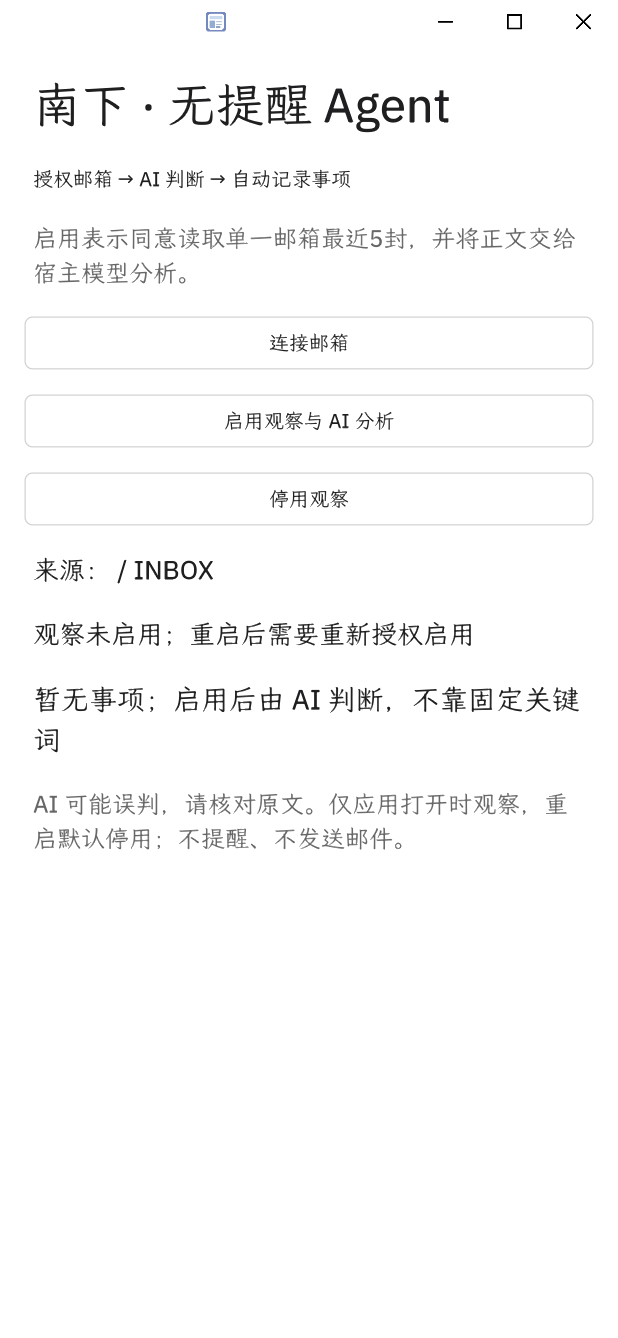
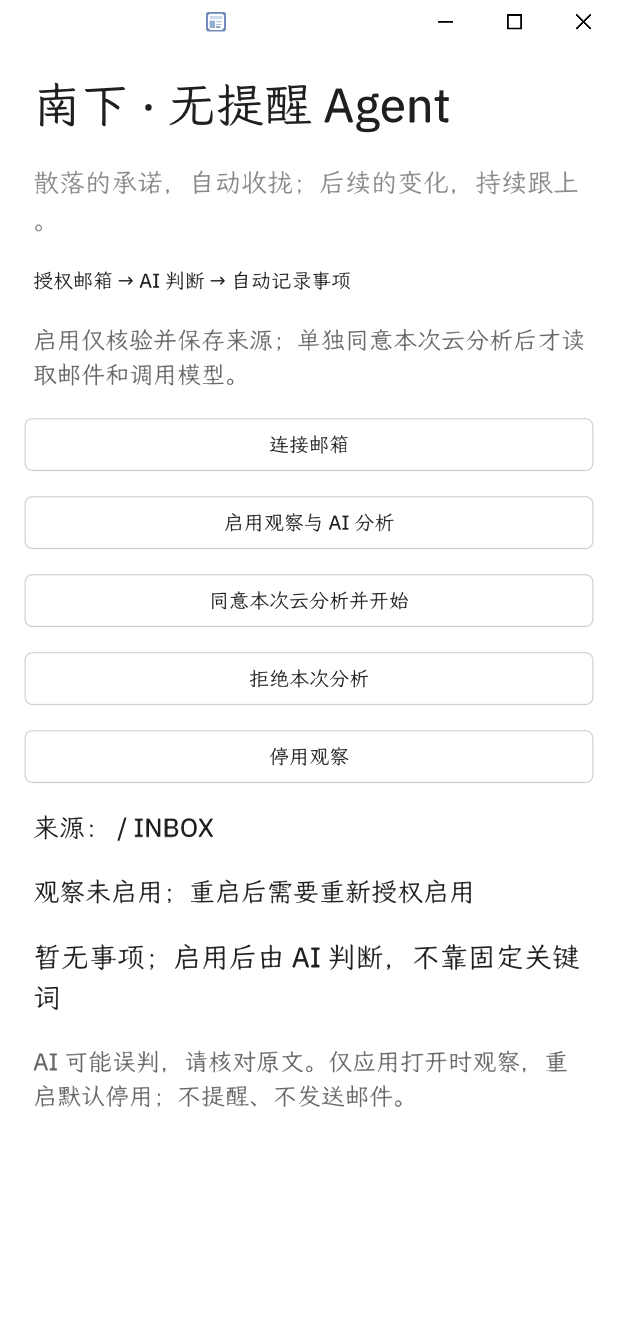
fix: require separate cloud analysis consent before reading mail

diff --git a/README.md b/README.md
@@ -2,7 +2,7 @@
 
 **让 AI 从授权来源主动识别需要记录的事，而不是由人逐条创建待办。**例如邮件说“今天晚上6点前交稿”，AI判断是否与你有关，记录事项、截止时间原文与出处；后续说“改成明天中午”，更新同一事项。
 
-当前开发候选 **0.5.1：授权邮箱事项观察，纯 OctoScript 应用**。已实现官方邮箱与模型调用、事项保存读回、更新和去重，并明确绑定唯一账号与 INBOX。29项原生界面和文件检查通过；**真实邮箱与真实模型的完整回环尚待本人授权验收，不能称为已完成。**
+当前开发候选 **0.5.2：单独确认云分析，纯 OctoScript 应用**。已实现邮箱与模型请求、事项保存读回、更新、去重及账号绑定；先准备来源，再明确同意本次分析，确认前重新核对账号。24项合成原生检查及5项生产界面检查通过；**真实邮箱与真实模型的完整回环尚待本人授权验收，不能称为已完成。** [本次证据](validation/CLOUD_CONSENT.md)。App Hub [#74](https://github.com/OctoSense-org/OctoSense-App-Hub/issues/74)提交的固定版本仍为0.5.1，尚待审核。
 
 Windows 宿主邮箱凭据存储修复尚未验收，此前请勿接入私人邮箱凭据。网页登录仍在开发。当前执行顺序见[邮箱接入计划](docs/MAIL_INTEGRATION_PLAN.md)，本次验证见[0.5.1来源绑定](validation/MAIL_SOURCE.md)。
 
@@ -12,7 +12,7 @@ Windows 宿主邮箱凭据存储修复尚未验收，此前请勿接入私人邮
 
 1. 在带官方 `mail` 和 `model` 服务的完整 OctoSense 宿主中加载应用，配置可用模型。
 2. 点击“连接邮箱”，在宿主授权页面完成登录。应用不收集密码。
-3. 点击“启用观察与 AI 分析”，授权读取单一邮箱最近5封并交给宿主模型判断；无需逐封点击分析。
+3. 点击“启用观察与 AI 分析”核验来源，查看邮箱与数据用途，再点击“同意本次云分析并开始”。拒绝不会读取邮件正文或调用模型；停用、错误或重启需重新同意。
 4. 查看自动记录的事项、截止原文、证据及出处；需要时点击“停用观察”。
 
 仅应用打开时每30秒检查，重启默认停用；历史及去重各100条，满后停止。不发送邮件、不弹提醒。不扫描其他软件；最近5封之外可能遗漏。AI可能误判，时间不确定时保留原文供核对。

diff --git a/validation/CLOUD_CONSENT.md b/validation/CLOUD_CONSENT.md
@@ -1,0 +1,11 @@
+# 0.5.2 单独云分析同意验证
+
+2026-10-04。基于0.5.1来源绑定；开发使用一次可见MiniMax Plan派单，Codex静态修正并独立原生复验。内环回执不是验收结果。
+
+启用按钮只核验账号并保存来源；同意按钮重新核对准备时的唯一账号/地址/INBOX后才读取邮件与分析。拒绝、停用、服务错误及重启清空临时同意与等待来源；迟到回调通过generation失效。不保存或自动恢复同意，不新增服务/权限。
+
+`python runtime/verify_commitment_consent_ui.py --bundle runtime/worktrees/commitment-consent/bundle --output runtime/verification/COMMITMENT-CONSENT-003 --host runtime/host-repro/OctoSense-App-Hub/target/release/card-host.exe`：24项合成原生UI/文件检查通过。包括未准备就确认、准备不读正文/调用模型、显示来源、拒绝、账号变更、停用/重启清除同意，以及创建/更新/忽略/去重、超时、迟到、错误存储回归。模型与邮件响应为合成，不接私人凭据。
+
+`python runtime/verify_task_observer_host.py --bundle git-repo/bundle --output runtime/verification/COMMITMENT-CONSENT-production --host runtime/host-repro/OctoSense-App-Hub/target/release/card-host.exe`：5项未修改生产包原生界面检查通过，缺少mail服务时诚实拒绝。初始截图已目视检查；该宿主不提供mail/model，所以不是实际服务连通验收。
+
+结构化结果：[合成检查](cloud-consent-results.json)、[生产界面](cloud-consent-production-results.json)。本次不宣称真实邮箱/模型质量、OAuth或完整COMMITMENT-001完成。单来源真实业务验收和宿主凭据保护仍待完成。App Hub冻结v0.5.1未改变；本版未提交商店审核。
